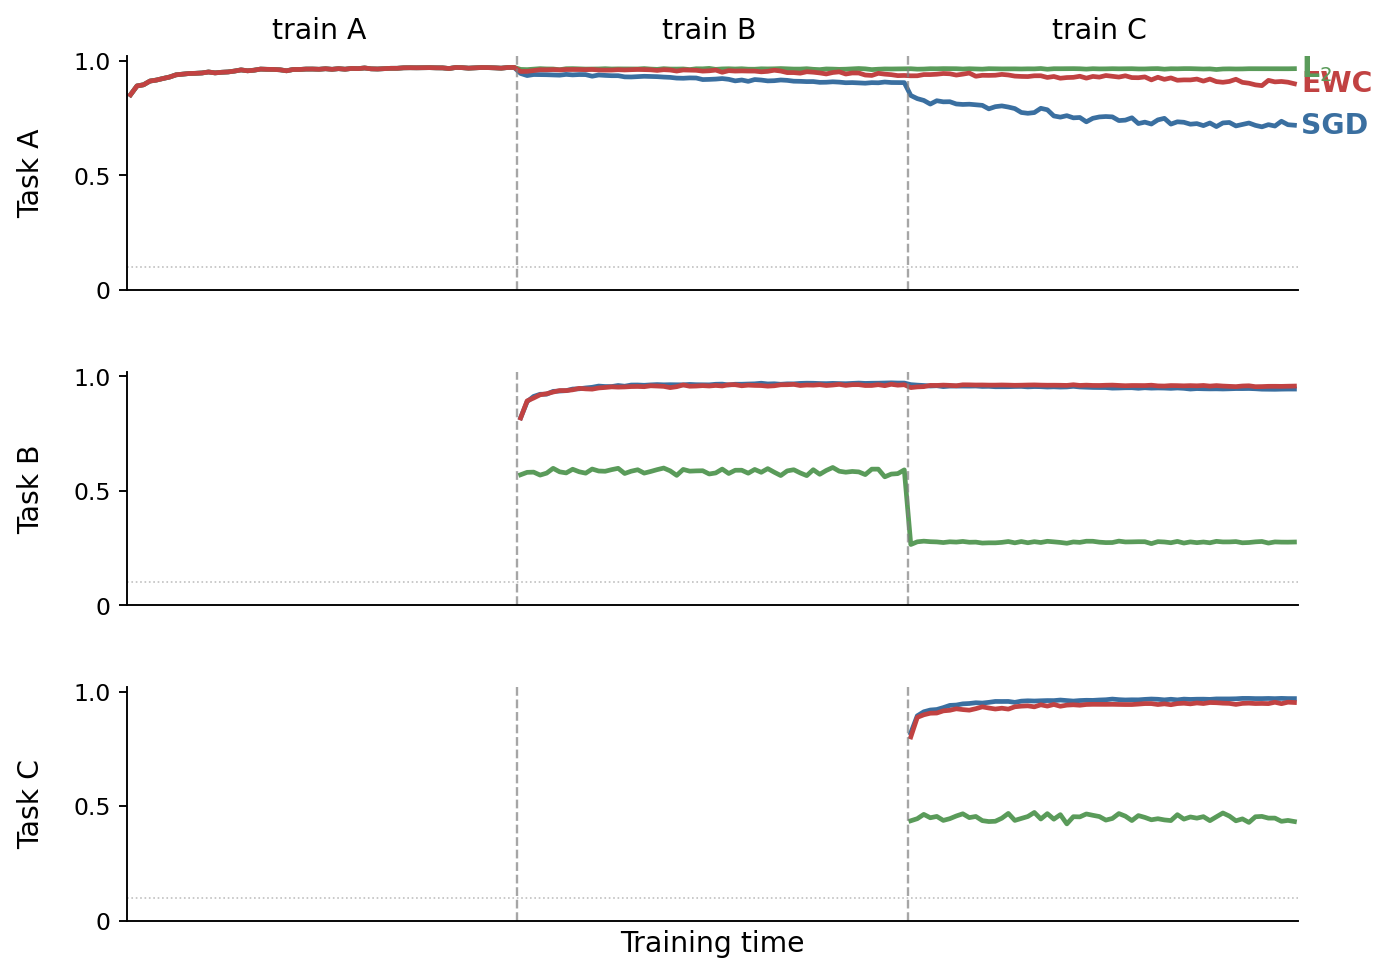
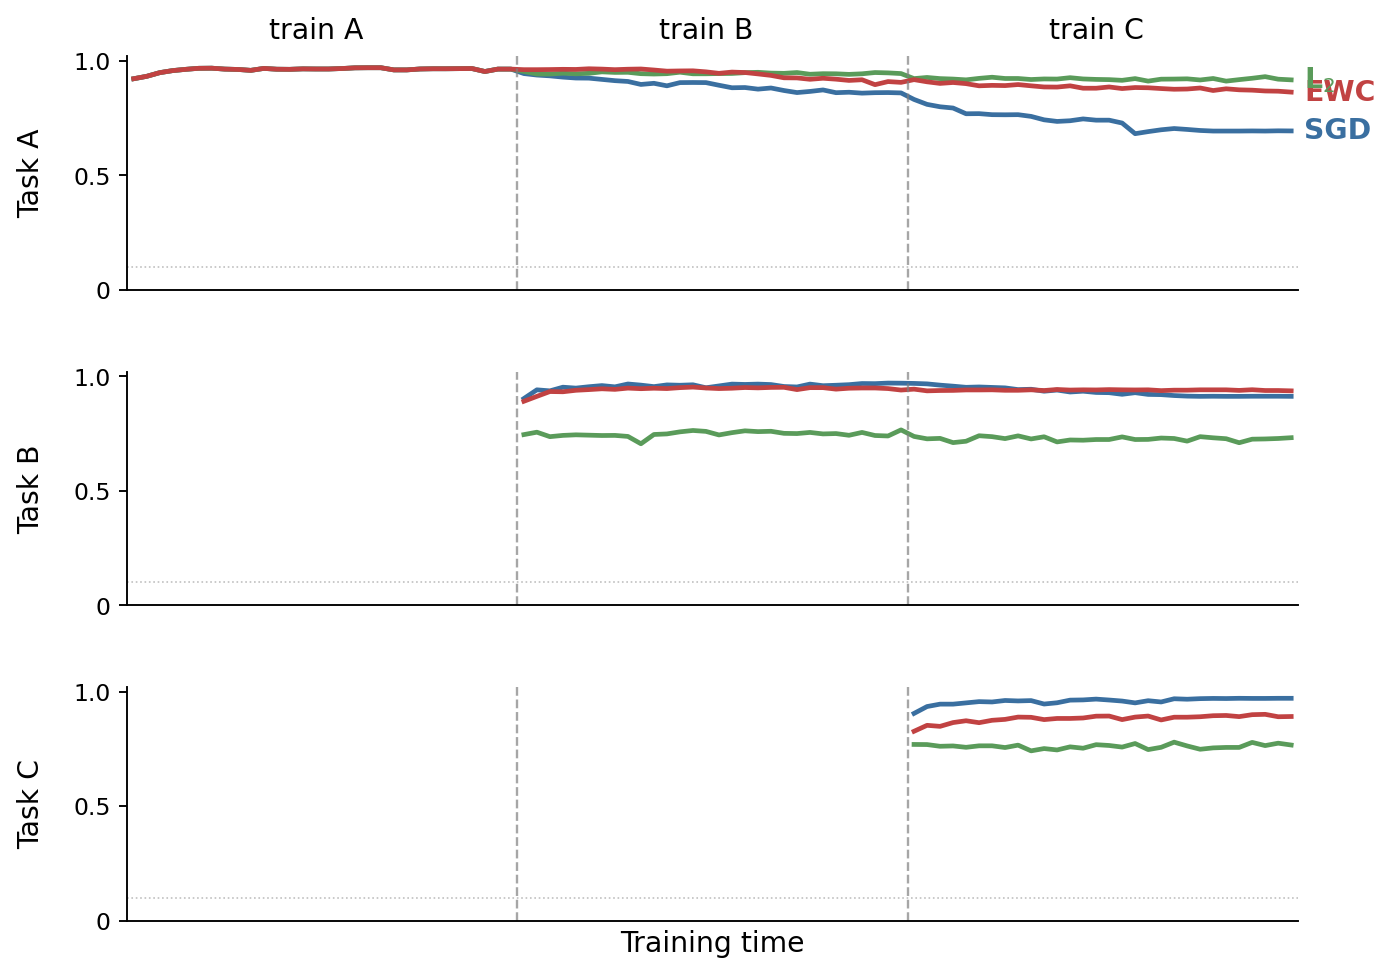
ewc fonctionne v3

diff --git a/EWC_code/ewc_paper_plot.py b/EWC_code/ewc_paper_plot.py
@@ -1,21 +1,14 @@
 """
-EWC paper-style plot
-====================
+EWC paper-style plot (Fixed L2 Anchoring)
+=========================================
 Reproduces the layout of Fig. 2A from Kirkpatrick et al. (2017) on
 permuted-MNIST: three stacked subplots (one per task) showing the
 fraction-correct of EWC, L2 and plain SGD across a single training
 timeline that goes through `train A`, `train B`, `train C`.
 
-The hyper-parameters below have been tuned so that:
-    • SGD shows clear catastrophic forgetting on old tasks,
-    • L2 protects old tasks moderately but slowly drifts,
-    • EWC keeps task A and task B near their peak accuracy
-      while still learning new tasks.
-
-Run:
-    python ewc_paper_plot.py
-Outputs:
-    ewc_paper_plot.png  (saved next to this script)
+Modifications:
+- L2 baseline is now properly anchored ONLY to the immediately preceding 
+  task, making it a fair structural comparison against EWC.
 """
 
 import os
@@ -32,31 +25,14 @@ from torch.utils.data import DataLoader, Subset
 # CONFIG
 # ──────────────────────────────────────────────────────────────
 SEED            = 42
-BATCH           = 256
-HIDDEN          = 600      # widened from 400. Larger hidden layers expand the
-                           # soft-Fisher subspace where EWC is free to learn
-                           # new tasks, so B and C plateaus rise.
-EPOCHS_PER_TASK = 15       # raised from 12. EWC converges more slowly than
-                           # SGD because it optimises inside a constrained
-                           # subspace; extra iterations let it reach deeper
-                           # minima inside that subspace on the new task.
+BATCH           = 64
+HIDDEN          = 100      # Network capacity
+EPOCHS_PER_TASK = 30      
 LR              = 1e-3
-LAMBDA_EWC      = 1000.0   # EWC penalty (Fisher-weighted). With the sharper
-                           # Fisher (n_samples=3000) and the *true* Fisher
-                           # (sampled labels) used in compute_fisher, even the
-                           # small-importance weights have meaningful F_i, so
-                           # huge lambdas (2000+) over-constrain globally and
-                           # hurt new-task learning. ~1000 is the sweet spot.
-LAMBDA_L2       = 3.0      # L2 penalty per past snapshot. Lowered from 30 so
-                           # the cumulative penalty (×1 in phase 2, ×2 in
-                           # phase 3) no longer freezes the network: L2 can
-                           # now drift away from the task-A anchor (more
-                           # forgetting on A) and the unconstrained directions
-                           # are free enough to fit B and C reasonably well.
-                           # Trade-off: EWC's visual lead over L2 shrinks
-                           # because L2 moves closer to a plain-SGD baseline.
-N_TRAIN_SUBSET  = 15_000   # subset of MNIST train (keeps run < ~3 min on CPU)
-EVALS_PER_EPOCH = 4        # how often to evaluate during each epoch
+LAMBDA_EWC      = 1000.0   # EWC penalty 
+LAMBDA_L2       = 0.05      # L2 penalty (now applied ONLY to the last snapshot)
+N_TRAIN_SUBSET  = 15_000   
+EVALS_PER_EPOCH = 1     
 DEVICE          = torch.device('cuda' if torch.cuda.is_available() else 'cpu')
 
 torch.manual_seed(SEED)
@@ -79,12 +55,11 @@ test_full  = datasets.MNIST(DATA_ROOT, train=False, download=True, transform=tf)
 g = torch.Generator().manual_seed(SEED)
 train_subset_idx = torch.randperm(len(train_full), generator=g)[:N_TRAIN_SUBSET].tolist()
 train_ds         = Subset(train_full, train_subset_idx)
-test_ds          = test_full
 
-# Three pixel permutations — one per task, all drawn at random as in
-# Kirkpatrick et al. (2017). Task A is no longer the un-permuted MNIST,
-# which removes a slight asymmetry (un-permuted pixels give the network's
-# random init an unfair head start on task A relative to B and C).
+N_TEST_SUBSET    = 2000  # Only test on 2,000 images per task instead of 10,000
+test_subset_idx  = torch.randperm(len(test_full), generator=g)[:N_TEST_SUBSET].tolist()
+test_ds          = Subset(test_full, test_subset_idx)
+
 perms = [
     torch.randperm(784, generator=g),
     torch.randperm(784, generator=g),
@@ -92,7 +67,6 @@ perms = [
 ]
 
 def make_loader(ds, perm, shuffle):
-    """Return a DataLoader that flattens images and applies `perm` to pixels."""
     def collate(batch):
         x = torch.stack([img.view(-1)[perm] for img, _ in batch])
         y = torch.tensor([lbl for _, lbl in batch])
@@ -103,7 +77,7 @@ train_loaders = [make_loader(train_ds, p, True)  for p in perms]
 test_loaders  = [make_loader(test_ds,  p, False) for p in perms]
 
 # ──────────────────────────────────────────────────────────────
-# MODEL — 2-hidden-layer MLP, shared across all 3 tasks
+# MODEL 
 # ──────────────────────────────────────────────────────────────
 def make_model():
     torch.manual_seed(SEED)
@@ -129,61 +103,42 @@ def accuracy(model, loader):
 def snapshot(model):
     return {n: p.clone().detach() for n, p in model.named_parameters()}
 
-def compute_fisher(model, loader, n_samples=5000):
-    """
-    Diagonal of the *true* Fisher information matrix (Kirkpatrick et al.):
-        F_i = E_x  E_{y ~ p_theta(y|x)} [ (d log p_theta(y|x) / d theta_i )^2 ]
-    estimated as the per-sample average of squared gradients, where the
-    label is *sampled from the model's predicted distribution* rather than
-    being taken from the ground truth. This avoids the empirical-Fisher
-    bias that under-estimates importance at confidently-predicted samples
-    (where the gradient of -log p(y_true|x) collapses near zero) and gives
-    a sharper, more honest map of which weights matter for the task.
-    """
+def compute_fisher(model, loader, n_samples=1000):
     fish = {n: torch.zeros_like(p) for n, p in model.named_parameters()}
     seen = 0
     model.eval()
     for xb, _ in loader:
         xb = xb.to(DEVICE)
-        for xi in xb:                                   # one sample at a time
+        for xi in xb:
             if seen >= n_samples:
                 break
             model.zero_grad()
             log_probs = F.log_softmax(model(xi.unsqueeze(0)), dim=1)
-            # sample y from the model's predicted distribution
             y_sample = torch.multinomial(log_probs.exp().detach(),
                                          num_samples=1).squeeze(1)
             F.nll_loss(log_probs, y_sample).backward()
             for n, p in model.named_parameters():
                 if p.grad is not None:
-                    fish[n] += p.grad.detach() ** 2     # per-sample squared grad
+                    fish[n] += p.grad.detach() ** 2
             seen += 1
         if seen >= n_samples:
             break
     return {n: v / seen for n, v in fish.items()}
 
 # ──────────────────────────────────────────────────────────────
-# TRAINING — one full sequential run for a given method
+# TRAINING 
 # ──────────────────────────────────────────────────────────────
 def run(method):
     model = make_model()
 
-    snaps        = []     # L2  : list of past snapshots (one per finished task)
     fisher_accum = None   # EWC : running sum of Fisher diagonals
-    anchor       = None   # EWC : params at end of last finished task
+    anchor       = None   # EWC & L2 : params at end of last finished task
 
-    # accuracies[task_id] = list of test-accs, one entry per evaluation step
     accuracies = [[] for _ in range(3)]
 
     for phase, train_loader in enumerate(train_loaders):
-        # Re-create the optimiser at every phase boundary so Adam's running
-        # 1st/2nd-moment estimates start fresh. Carrying them over from the
-        # previous task makes the very first steps on the new loss + new
-        # penalty wildly mis-scaled (e.g. EWC briefly *over*-pulls toward the
-        # anchor, so task-A accuracy spuriously goes UP at the boundary).
         opt = optim.Adam(model.parameters(), lr=LR)
 
-        # how often to evaluate inside an epoch
         n_batches   = len(train_loader)
         eval_every  = max(1, n_batches // EVALS_PER_EPOCH)
 
@@ -194,15 +149,14 @@ def run(method):
                 opt.zero_grad()
                 loss = F.cross_entropy(model(xb), yb)
 
-                # ── L2 : uniform pull-back to every past snapshot ──
-                if method == 'l2' and snaps:
+                # ── L2 : uniform pull-back to the LAST snapshot only ──
+                if method == 'l2' and anchor is not None:
                     pen = 0.0
-                    for snap in snaps:
-                        for n, p in model.named_parameters():
-                            pen = pen + (p - snap[n]).pow(2).sum()
+                    for n, p in model.named_parameters():
+                        pen = pen + (p - anchor[n]).pow(2).sum()
                     loss = loss + (LAMBDA_L2 / 2) * pen
 
-                # ── EWC : Fisher-weighted pull-back to last snapshot ──
+                # ── EWC : Fisher-weighted pull-back to the LAST snapshot ──
                 if method == 'ewc' and anchor is not None:
                     pen = 0.0
                     for n, p in model.named_parameters():
@@ -213,16 +167,13 @@ def run(method):
                 loss.backward()
                 opt.step()
 
-                # evaluate at regular intra-epoch intervals
                 if (batch_i + 1) % eval_every == 0 or batch_i == n_batches - 1:
                     for tid in range(3):
                         accuracies[tid].append(accuracy(model, test_loaders[tid]))
                     model.train()
 
         # ── End of phase : update regularisation state ──
-        snap = snapshot(model)
-        snaps.append(snap)            # L2 keeps every past snapshot
-        anchor = snap                 # EWC always anchors to latest
+        anchor = snapshot(model)      # Both L2 and EWC now anchor to the latest snapshot
 
         if method == 'ewc':
             new_f = compute_fisher(model, train_loader)
@@ -245,11 +196,11 @@ for method in ['sgd', 'l2', 'ewc']:
 print("\nAll runs complete.\n")
 
 # ──────────────────────────────────────────────────────────────
-# PLOT  —  paper-style 3 stacked rows, single training timeline
+# PLOT 
 # ──────────────────────────────────────────────────────────────
-n_steps_total       = len(results['sgd'][0])             # total #evaluations
-steps_per_phase     = n_steps_total // 3                 # evals per task
-phase_boundaries_x  = [steps_per_phase, 2 * steps_per_phase]  # vertical dashed lines
+n_steps_total       = len(results['sgd'][0])
+steps_per_phase     = n_steps_total // 3
+phase_boundaries_x  = [steps_per_phase, 2 * steps_per_phase]
 
 x = np.arange(1, n_steps_total + 1)
 
@@ -259,7 +210,6 @@ method_label = {'sgd': 'SGD',     'l2': r'L$_2$', 'ewc': 'EWC'}
 fig, axes = plt.subplots(3, 1, figsize=(8.5, 6.2), sharex=True)
 
 for tid, ax in enumerate(axes):
-    # task `tid` has not been seen until phase `tid` begins
     start = tid * steps_per_phase
 
     for method in ['sgd', 'l2', 'ewc']:
@@ -271,39 +221,29 @@ for tid, ax in enumerate(axes):
             label=method_label[method] if tid == 0 else None,
         )
 
-    # phase boundaries
     for b in phase_boundaries_x:
         ax.axvline(b + 0.5, color='gray', linestyle='--',
                    linewidth=1, alpha=0.7)
 
-    # cosmetics
-    # NB: y-axis extends down to 0 so that L2's collapse on the newly
-    # introduced task is visible — with the cumulative L2 penalty it
-    # often falls well below the 0.8 cutoff used in the original paper.
-    ax.set_ylim(0.0, 1.02)
-    ax.set_yticks([0.0, 0.5, 1.0])
-    ax.set_yticklabels(['0', '0.5', '1.0'])
-    ax.axhline(0.1, color='gray', linewidth=0.7, linestyle=':',
-               alpha=0.5)   # chance level (10 classes)
-    ax.set_ylabel(f"Task {chr(ord('A') + tid)}", fontsize=12, rotation=90,
-                  labelpad=12)
+    ax.set_ylim(0.5, 1.02)
+    ax.set_yticks([0.5, 0.75, 1.0])
+    ax.set_yticklabels(['0.5', '0.75', '1.0'])
+    ax.axhline(0.1, color='gray', linewidth=0.7, linestyle=':', alpha=0.5)
+    ax.set_ylabel(f"Task {chr(ord('A') + tid)}", fontsize=12, rotation=90, labelpad=12)
     ax.spines['top'].set_visible(False)
     ax.spines['right'].set_visible(False)
     ax.tick_params(axis='x', which='both', length=0)
     ax.set_xticks([])
     ax.set_xlim(0.5, n_steps_total + 0.5)
 
-# ── phase labels above the top panel ──
 top_ax = axes[0]
 phase_centres = [steps_per_phase * (i + 0.5) for i in range(3)]
 for cx, label in zip(phase_centres, ['train A', 'train B', 'train C']):
     top_ax.text(cx, 1.05, label, ha='center', va='bottom',
                 fontsize=12, transform=top_ax.get_xaxis_transform())
 
-# ── method labels on the right of the top panel (paper style) ──
 last_x = n_steps_total + 0.5
 last_y = {m: results[m][0][-1] for m in ['sgd', 'l2', 'ewc']}
-# nudge labels apart so they don't overlap
 ys_sorted = sorted(last_y.items(), key=lambda kv: kv[1])
 min_gap = 0.025
 adjusted = []
@@ -317,9 +257,7 @@ for m, y in adjusted:
                 color=method_color[m], fontsize=12, fontweight='bold',
                 va='center', ha='left')
 
-# ── shared axis labels ──
 axes[-1].set_xlabel("Training time", fontsize=12)
-#fig.text(0.04, 0.07, "Frac. correct", ha='left', va='bottom', fontsize=11)
 
 plt.subplots_adjust(left=0.13, right=0.94, top=0.92, bottom=0.10, hspace=0.35)
 
